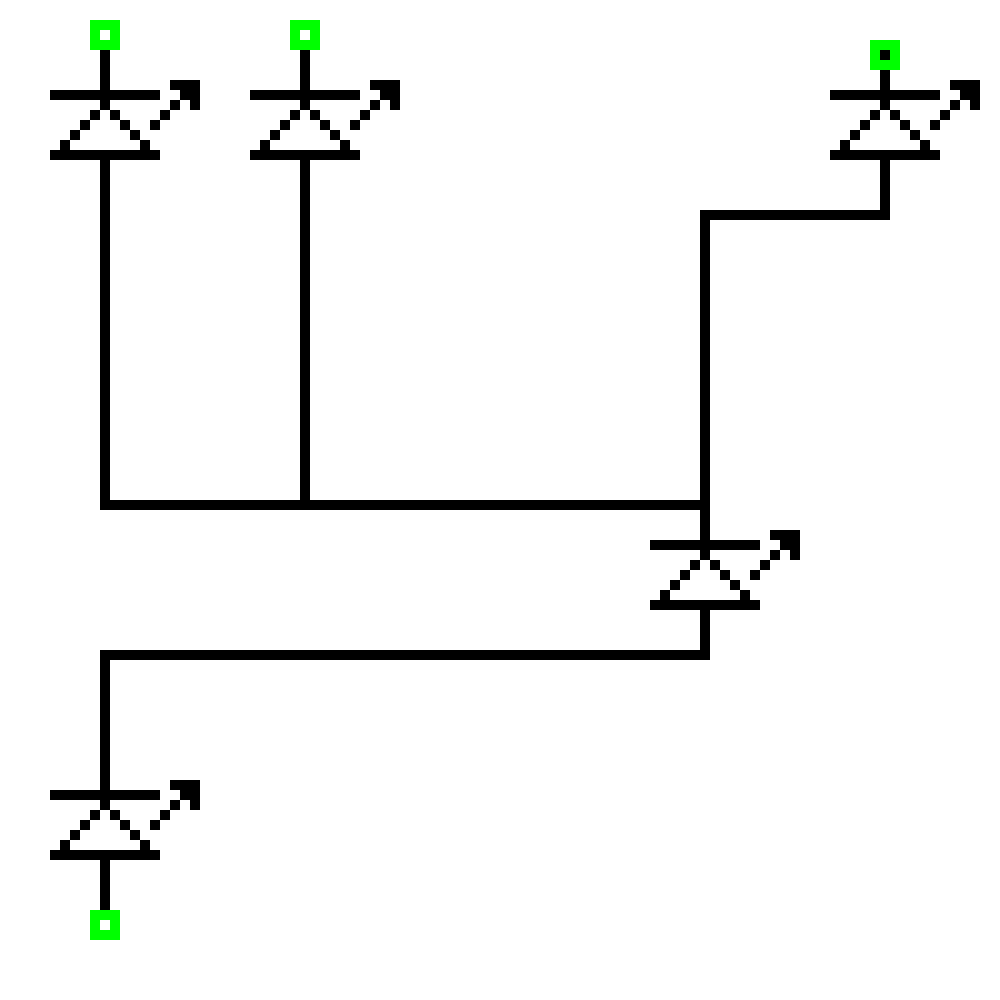
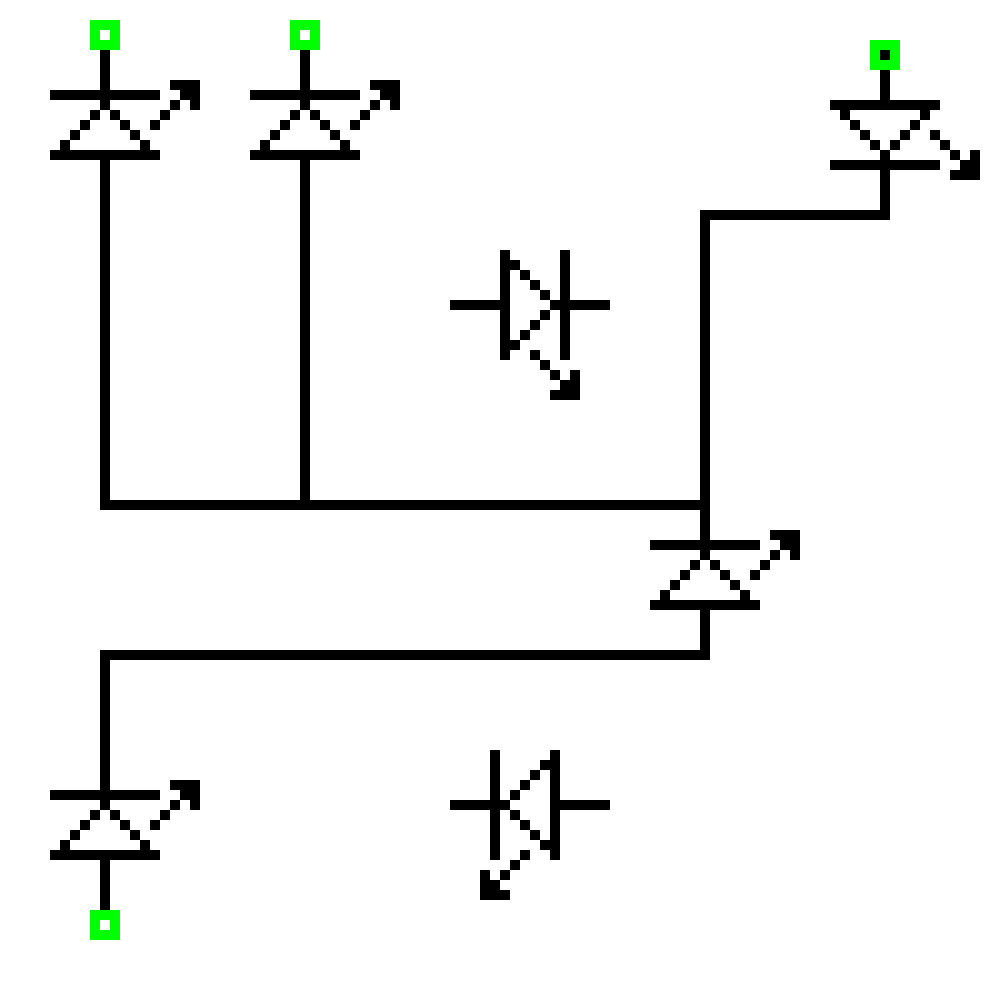
feat(direction): LED's now point NESW

Changed region(s): [[0.806, 0.062, 0.992, 0.186], [0.465, 0.744, 0.62, 0.899], [0.434, 0.248, 0.62, 0.403]]

diff --git a/pkg/components/led.go b/pkg/components/led.go
@@ -56,6 +56,40 @@ type LEDConfig struct {
 	Direction  string
 }
 
+func transformPixels(pixels [][]int, direction string) [][]int {
+	newPixels := make([][]int, len(pixels))
+	copy(newPixels, pixels)
+	if direction == North {
+		return pixels
+	}
+	if direction == South {
+		for i, j := 0, len(newPixels)-1; i < j; i, j = i+1, j-1 {
+			newPixels[i], newPixels[j] = newPixels[j], newPixels[i]
+		}
+		return newPixels
+	}
+
+	newPixels = [][]int{}
+	for range pixels[0] {
+		newPixels = append(newPixels, []int{})
+	}
+	for _, row := range pixels {
+		for k, pixel := range row {
+			newPixels[k] = append(newPixels[k], pixel)
+		}
+	}
+	if direction == West {
+		return newPixels
+	} else {
+		for _, row := range newPixels {
+			for i, j := 0, len(row)-1; i < j; i, j = i+1, j-1 {
+				row[i], row[j] = row[j], row[i]
+			}
+		}
+		return newPixels
+	}
+}
+
 // NewLED returns a LED config starting from specified x,y
 func NewLED(startCoord common.Coordinate, direction string) (LEDConfig, error) {
 	if _, ok := directions[direction]; !ok {
@@ -63,7 +97,7 @@ func NewLED(startCoord common.Coordinate, direction string) (LEDConfig, error) {
 	}
 	return LEDConfig{
 		startCoord: startCoord,
-		LedPixels:  ledPixels,
+		LedPixels:  transformPixels(ledPixels, direction),
 		Colour:     color.Black,
 		Direction:  direction,
 	}, nil

diff --git a/main.go b/main.go
@@ -39,11 +39,23 @@ func main() {
 		log.Fatal(err)
 	}
 	board.AddElement(&led4)
-	led5, err := components.NewLED(common.NewCord(83, 5), components.North)
+	led5, err := components.NewLED(common.NewCord(83, 5), components.South)
 	if err != nil {
 		log.Fatal(err)
 	}
 	board.AddElement(&led5)
+
+	led6, err := components.NewLED(common.NewCord(45, 25), components.East)
+	if err != nil {
+		log.Fatal(err)
+	}
+	board.AddElement(&led6)
+
+	led7, err := components.NewLED(common.NewCord(45, 75), components.West)
+	if err != nil {
+		log.Fatal(err)
+	}
+	board.AddElement(&led7)
 
 	// Add some wires
 	wire := components.NewWire(common.NewCord(30, 20), common.NewCord(30, 50))
